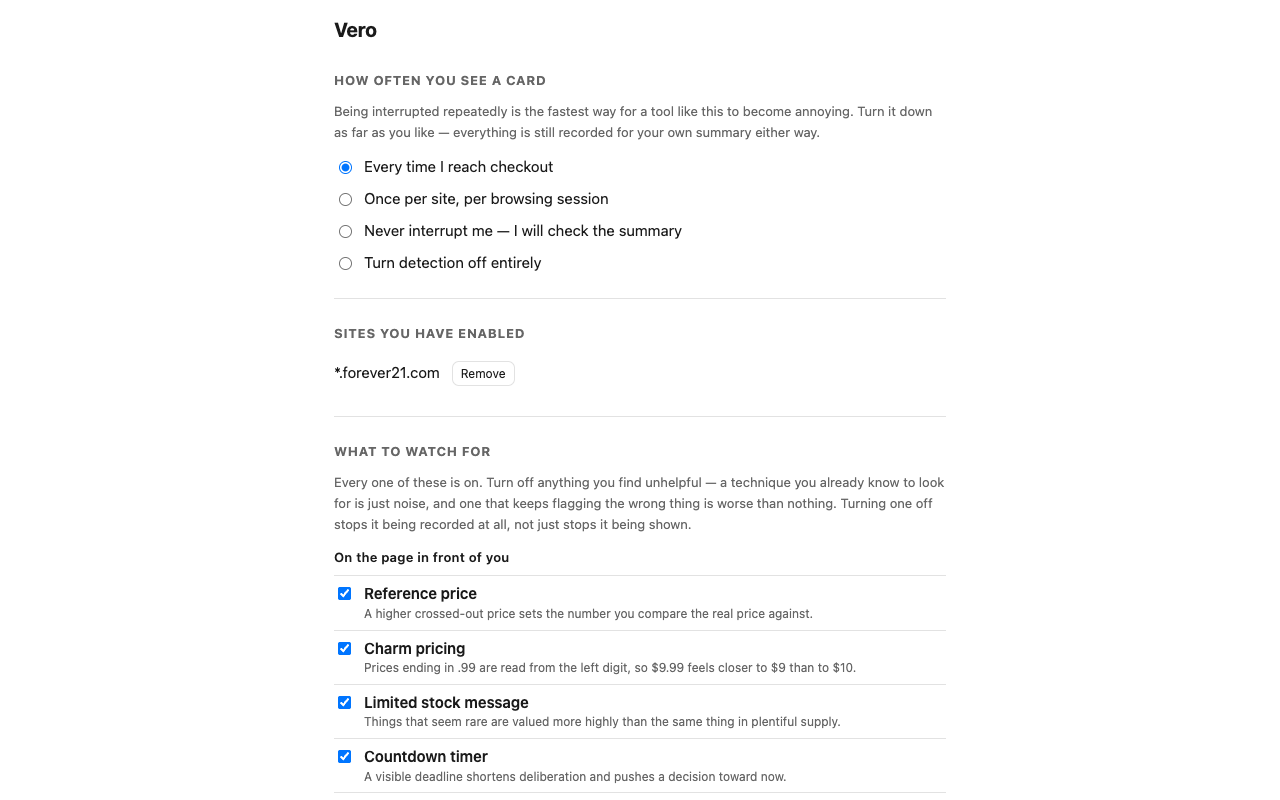
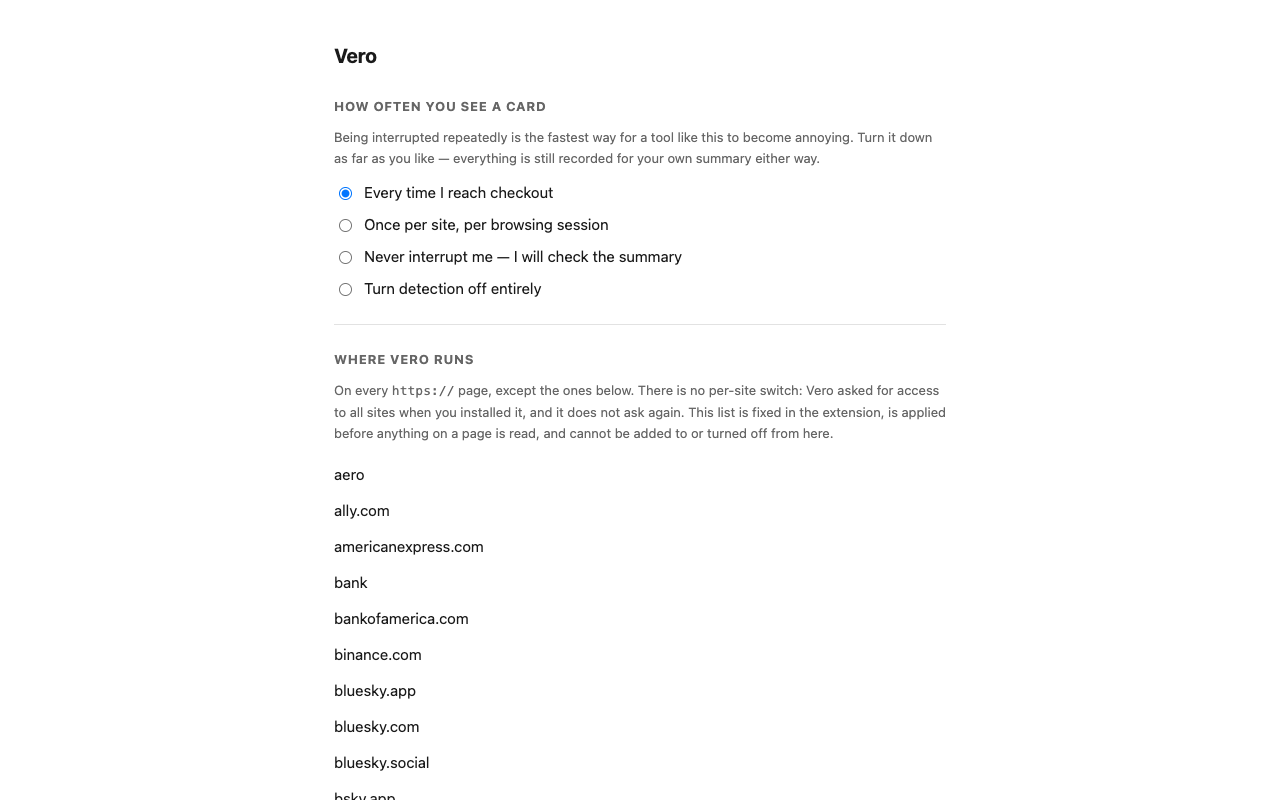
Make the store submission match the build being submitted
Getting ready to upload turned up four places where the listing described a product that no
longer exists — each one a plausible rejection, and the first a false statement to users.

The public description said "It asks for no site access when you install it. You grant one
site at a time." The opposite is true, and Chrome's install prompt says so in its own words
two clicks later. It now says what Chrome will show, why the access is broad, and what limits
it — plus the opt-in sharing, described as naming the shop rather than as anonymous counts.

The permission justifications argued for `declarativeContent` (no longer requested), for a
per-site grant button (gone), and for optional host permissions (gone). Reviewers read these
against the manifest. Rewritten for the three permissions and the one host pattern actually
declared.

`scripting` is dropped from the manifest. It survived only to unregister a runtime script left
by the per-site grant model — which never shipped, so no installed copy can have one. A
permission requested for a user who cannot exist is one a reviewer is right to refuse.

And screenshot 02 showed an "Enable on this site" button. It is retaken on the shop the card
fired on, and shows what a user sees: running on forever21.com, checking this page. The
capture script no longer narrows the host permission to fake a per-site grant, and its
fixture fallback moved off localhost, which the denylist refuses.

Changed region(s): [[0.25, 0.4062, 0.75, 1.0], [0.25, 0.0312, 0.7188, 0.375]]

diff --git a/src/entrypoints/background.ts b/src/entrypoints/background.ts
@@ -18,7 +18,7 @@ import {
   saveLedger,
 } from "@/background/sessionLedger";
 import { discardQueue, flush, pendingRecords } from "@/background/telemetry";
-import { DETECTOR_SCRIPT_ID, TELEMETRY_ENDPOINT } from "@/shared/constants";
+import { TELEMETRY_ENDPOINT } from "@/shared/constants";
 import { matchesPattern } from "@/shared/domain";
 import type { ShowDigest } from "@/shared/messages";
 import { Message } from "@/shared/messages.schema";
@@ -29,22 +29,22 @@ import { decodePriceSnapshot } from "@/shared/wire";
  *
  *   1. Own the session ledger and the digest decision, because both outlive any one page.
  *   2. Answer the popup's "are you actually running here?" question.
- *   3. Clean up after the permission model this build replaced (see dropLegacyRegistration).
- *
- * What it no longer does: register the content script. The manifest declares it, matching
+ *  *
+ * What it does not do: register the content script, and so it needs no `scripting`
+ * permission. An earlier draft kept that permission solely to unregister a script left over
+ * from the per-site grant model — but that model never shipped, so no installed copy can
+ * have one, and a permission requested for a user who cannot exist is a permission a store
+ * reviewer is right to reject. The manifest declares it, matching
  * the required https host permission and excluding what the denylist can express, so there
  * is nothing to keep in sync at runtime and nothing that can silently fail to register. It
  * also no longer installs declarativeContent page rules — the action is enabled everywhere
  * and the popup opens on every page, so there was nothing for a page rule to decide.
  */
 export default defineBackground(() => {
-  chrome.runtime.onInstalled.addListener(() => {
-    void dropLegacyRegistration();
-  });
+  chrome.runtime.onInstalled.addListener(() => {});
 
   // Service workers die. Anything assumed to persist has to be re-derived on wake.
   chrome.runtime.onStartup.addListener(() => {
-    void dropLegacyRegistration();
     void housekeeping();
   });
 
@@ -106,39 +106,6 @@ async function flushTelemetry(): Promise<void> {
     }
   } catch (err) {
     console.error("[vero] telemetry flush failed", err);
-  }
-}
-
-/**
- * Remove the runtime content-script registration left behind by an earlier permission model.
- *
- * Builds before this one registered the detector with `chrome.scripting`, per granted
- * origin, with `persistAcrossSessions: true`. Those registrations SURVIVE an extension
- * update. On an upgraded install the manifest entry and the stale runtime entry would both
- * match, so the script would be injected twice (harmless — the injection flag catches the
- * second) and, far worse, the stale entry carries whatever matches the old model had
- * accumulated, with no exclude_matches on it at all. A user who once granted a bank
- * subdomain would keep being injected there, invisibly, forever.
- *
- * This is the only reason the `scripting` permission is still requested. It is a migration,
- * and it is cheap enough to run on every wake rather than trying to remember whether it has
- * already happened.
- */
-async function dropLegacyRegistration(): Promise<void> {
-  try {
-    const existing = await chrome.scripting.getRegisteredContentScripts({
-      ids: [DETECTOR_SCRIPT_ID],
-    });
-    if (existing.length === 0) return;
-    await chrome.scripting.unregisterContentScripts({ ids: [DETECTOR_SCRIPT_ID] });
-    console.info(
-      `[vero] removed a legacy runtime registration (${existing[0]?.matches?.length ?? 0} ` +
-        "match patterns); the manifest declares the content script now",
-    );
-  } catch (err) {
-    // Surface it. A failure here means the old registration is still live alongside the new
-    // manifest one, which is exactly the state that looks fine and is not.
-    console.error("[vero] could not drop the legacy content-script registration", err);
   }
 }
 

diff --git a/tests/unit/manifest.test.ts b/tests/unit/manifest.test.ts
@@ -62,7 +62,10 @@ describe("built manifest", () => {
     // when a lit icon meant "you can turn Vero on here". Nothing is turned on per site any
     // more, the action is enabled everywhere, and the popup opens on every page — so the
     // page rules decided nothing.
-    expect(manifest?.permissions).toEqual(["storage", "scripting", "activeTab", "alarms"]);
+    //
+    // `scripting` is gone too: it survived only to unregister a script left by the per-site
+    // grant model, which never shipped, so no installed copy can have one.
+    expect(manifest?.permissions).toEqual(["storage", "activeTab", "alarms"]);
   });
 
   it.skipIf(!available)("declares `alarms`, because the code has always assumed it", () => {

diff --git a/wxt.config.ts b/wxt.config.ts
@@ -78,7 +78,7 @@ export default defineConfig({
     // Vero on here". Vero is now on everywhere it is allowed to be, the action is enabled
     // by default, and the popup opens on every page and says which state applies — so the
     // page rules decided nothing and the permission bought nothing.
-    permissions: ["storage", "scripting", "activeTab", "alarms"],
+    permissions: ["storage", "activeTab", "alarms"],
 
     /**
      * REQUIRED, granted at install, and the install warning says so: "Read and change all

diff --git a/tests/e2e/extension.spec.ts b/tests/e2e/extension.spec.ts
@@ -67,7 +67,6 @@ test.describe("extension runtime", () => {
     expect(manifest?.optional_host_permissions ?? []).toEqual([]);
     expect(manifest?.permissions).toEqual([
       "storage",
-      "scripting",
       "activeTab",
       // Added late, after the round-trip test revealed both alarms had been silent no-ops
       // for the whole build. It shows no install warning and grants no page or data access.

diff --git a/STORE-LISTING.md b/STORE-LISTING.md
@@ -87,27 +87,31 @@ The card is small, appears in a corner, and stays until you close it — it does
 while you are reading it. It is never placed over a form field, a submit button, or anything
 on the purchase path; it may sit over an ordinary link, which one click uncovers.
 
-PRIVACY
+PRIVACY AND PERMISSIONS
 
-There is no account, and no advertising or analytics company is involved at any point.
+Chrome will tell you Vero can read the websites you visit, and that is accurate: it needs to,
+because these techniques turn up on small and new shops as often as on big ones, and no list
+of sites would cover them. What it does with that access is narrow:
 
-Out of the box the extension makes no network requests whatsoever, and you can check that
-yourself: open DevTools, go to the Network tab, and browse.
+• It reads a page and decides whether it is a shop first. On anything else — email, news,
+  documents, chat — it stops, records nothing, and stays out of the way.
+• It never runs on banking, health, government or webmail sites.
+• There is no account, and no advertising or analytics company is involved at any point.
+• Out of the box it makes no network requests at all. You can check: open DevTools, go to
+  the Network tab, and browse.
 
-There is one optional setting, off by default and not pre-ticked, that shares anonymous
-counts of which techniques appear where. If you turn it on, a count says "someone saw a
-countdown, on a travel site, in this hour" — no web address, no page content, no prices, no
-identifiers, no precise time. Counts are held back until at least 20 other reports share the
-same shape, because a count only you could have produced is not anonymous. You can read the
-exact records waiting to be sent, before any of them are, in Settings.
+Everything it notices stays on your device and is deleted after 30 days. You can export it
+or erase it at any time from Settings.
 
-Everything it notices stays on your device and is deleted after 30 days. You can erase it
-all at any time from Settings, and that includes any anonymous counts still waiting to be
-sent.
+OPTIONAL: HELP MEASURE THESE TECHNIQUES
 
-It asks for no site access when you install it. You grant one site at a time, from the
-toolbar, and you can revoke any of them whenever you like. It will never offer to run on
-banking, health, government or webmail sites.
+One setting, off by default and not pre-ticked, shares which shops use which techniques so
+their prevalence can be measured. It does name the shop: a report says "someone saw a
+countdown on shein.com today." It never sends the page, the product, your searches, page
+text, prices, your account, anything that identifies you, or any time more precise than the
+day. Reports go out in batches, not at the moment something is found, and you can read the
+exact reports waiting to be sent before any of them are. Turning it off deletes anything not
+yet sent.
 
 CONTROLS
 
@@ -148,60 +152,51 @@ Copy each into the corresponding field. These are the answers a reviewer is look
 
 **`storage`**
 ```
-Stores your per-site choices, your interruption-frequency setting, and a local log of what
-was noticed, so the extension can show you a summary. All of it stays on the device and is
-deleted after 30 days.
-```
-
-**`scripting`**
-```
-Registers the detection script at runtime, but only for sites you have explicitly enabled
-from the toolbar. No content script is declared in the manifest, so the extension has no
-page access at install time.
+Stores the user's settings (which techniques to watch for, how often to be interrupted, any
+sites they have turned Vero off for) and a local log of what was noticed, so the extension
+can show a summary and let the user export or delete it. Stored on the device; detections
+are deleted after 30 days by default.
 ```
 
 **`activeTab`**
 ```
-Lets the popup read the current tab's address so it can offer to enable that specific site.
-Used only while the popup is open.
+Lets the popup read the address of the tab the user is looking at, so it can say whether
+Vero is running on that page, is idle because the page is not a shop, or never runs there
+(banking, health, government and webmail sites). Used only while the popup is open.
 ```
 
 **`alarms`**
 ```
-Runs two scheduled jobs: deleting locally stored detections older than 30 days, and sending
-the optional anonymous counts on a timer rather than at the moment something is found. This
-permission shows no warning at install and grants no access to pages or data.
+Runs two scheduled jobs: deleting locally stored detections older than the retention period,
+and, only if the user has switched on sharing, sending reports in batches every six hours
+rather than at the moment something is found. It grants no access to pages or data.
 ```
 
-**`declarativeContent`**
-```
-Highlights the toolbar icon on URLs that look like shopping pages. This is evaluated by the
-browser from the URL alone — it grants no page access and reads no page content.
-```
+**Host permission: `https://*/*`**
 
-**`optional_host_permissions` (~150 named shopping origins, plus `https://*/*`)**
-
-> Read the manifest before submitting this one. It declares ~150 named origins AND the broad
-> `https://*/*` pattern, and a justification that mentions only the named list will not match
-> what the reviewer is looking at. The broad pattern is there because shopping happens on
-> sites no list contains; nothing about it is granted at install.
+> Chrome shows "Read and change all your data on all websites" for this. The justification
+> has to explain why a fixed list will not do, and has to describe the real limits — reviewers
+> look hardest at broad host permissions, and a vague answer here is the likeliest rejection.
 
 ```
-Nothing here is granted at install — this is the optional list, not the required one, so the
-extension has no site access when it is added and the install prompt asks for none.
+Vero detects persuasion techniques — countdown timers, limited-stock claims, crossed-out
+reference prices, preselected add-ons, fees added at checkout — on the shopping pages a user
+visits, and asks them a question about what was on screen before they buy.
 
-Access is requested one site at a time, by clicking a button in the popup while you are on
-that site, and Chrome shows its own prompt for that single site each time. Any site can be
-revoked from Settings, and revoking it immediately unregisters the script.
+It needs to read pages on sites that cannot be listed in advance. These techniques appear on
+small independent stores, regional retailers and new storefronts as much as on large
+retailers, and a fixed list would leave users unprotected exactly where a list is least
+likely to reach.
 
-The list includes https://*/* because a fixed list of shopping sites is always wrong: people
-shop on small independent stores, regional retailers, and sites that did not exist when the
-list was written, and a user who wants the extension on one of those should be able to grant
-it. The extension never requests this pattern. It only ever requests the single site you are
-looking at when you press the button.
-
-The extension will not offer to run on banking, health, government or webmail sites. That
-denylist is checked before anything else, and on those sites the button is not shown at all.
+What limits it:
+- It reads each page and decides whether it is a shop before doing anything else. On a page
+  that is not selling something it stops, records nothing, and checks again only rarely.
+- It never runs on banking, health, government or webmail sites. Those hosts are excluded
+  from the content script's match patterns, so Chrome does not inject it there, and the
+  script also refuses to run on them at startup.
+- https only.
+- By default it makes no network requests at all. The only data that can leave the device is
+  an optional, off-by-default report described in the privacy practices section.
 ```
 
 **Single purpose statement**
@@ -279,7 +274,7 @@ committed policy disagree. Re-check the page after any edit to PRIVACY.md.
 **Suggested screenshots**, in order of usefulness to a reviewer:
 
 1. The card on a real product page, showing one question.
-2. The popup with **Enable on this site**, showing the near-empty permission ask.
+2. The popup on a shopping page, saying Vero is running there and showing today's summary.
 3. Settings → *What was noticed today*, showing the Noticed / Shown split.
 4. Settings → *What to watch for*, showing a switch per technique and the frequency control.
    This is the screenshot that answers "can I turn it down?", which is the first thing a
